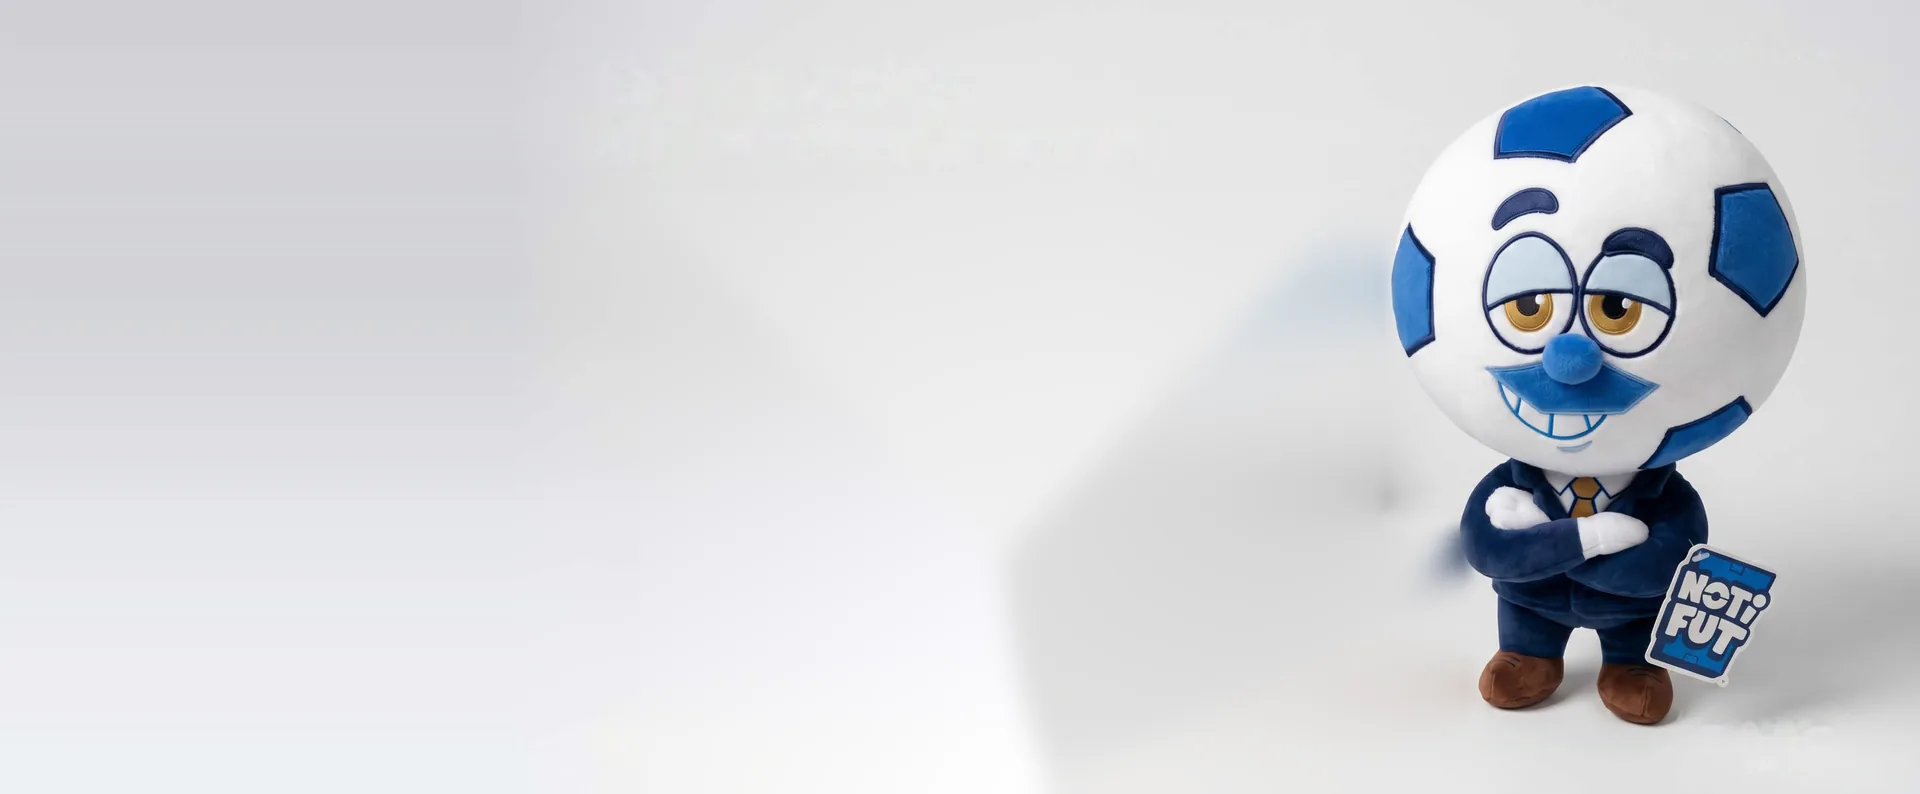
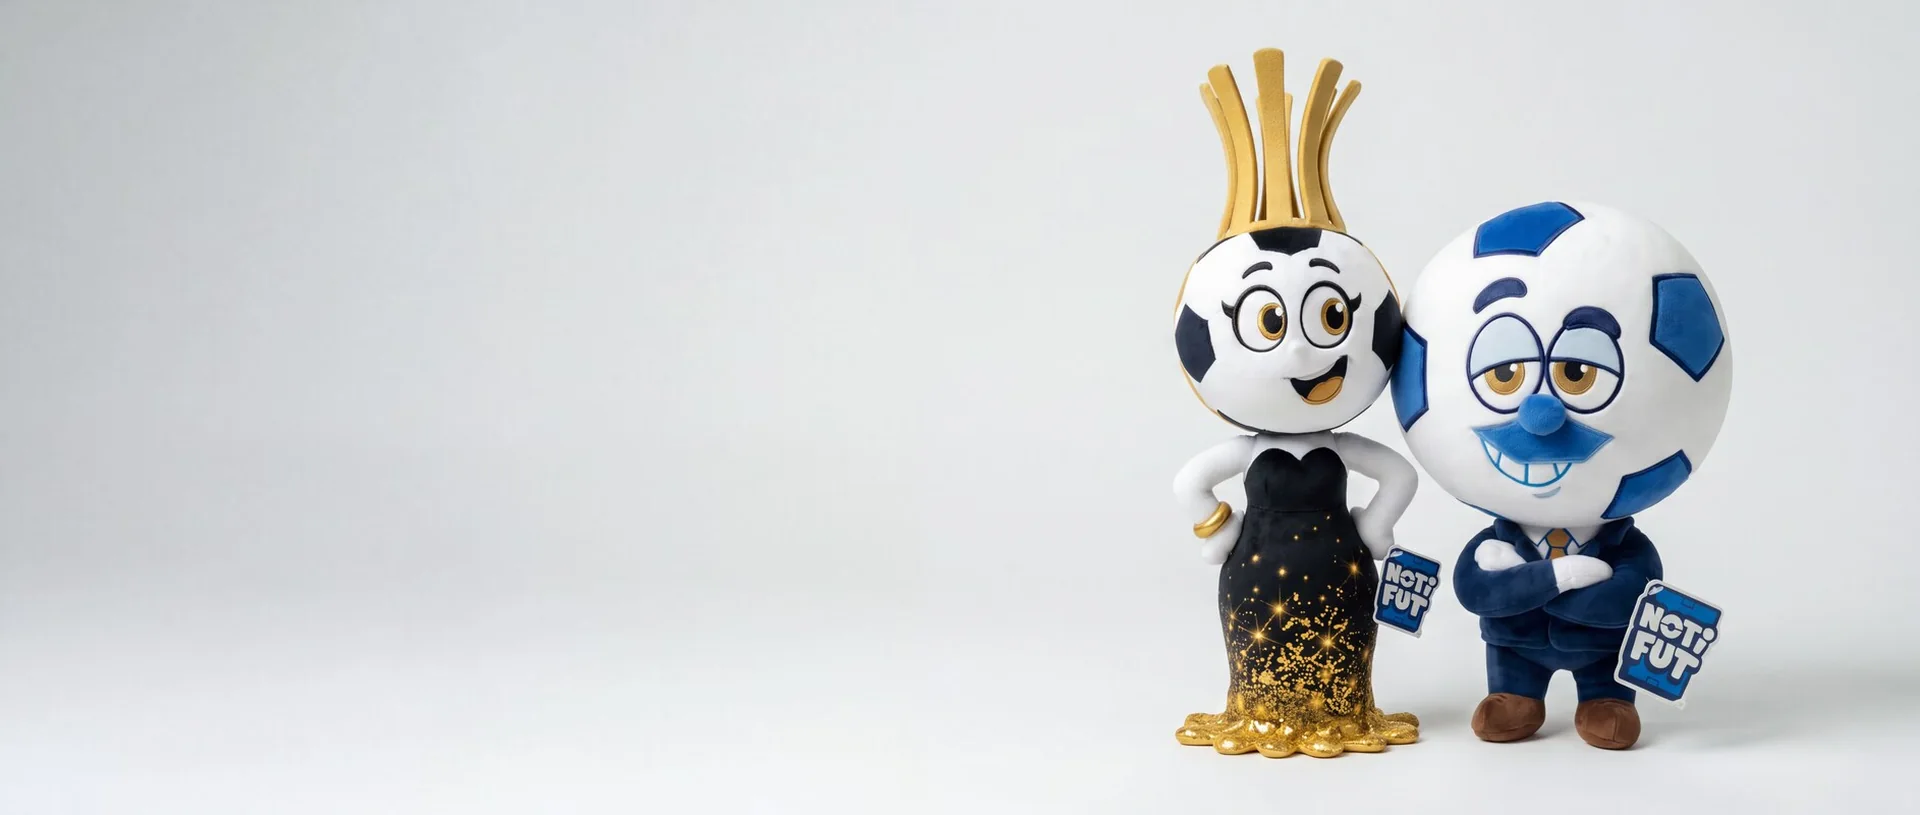
Capa NOTIFUT: pelúcias do Esférico e da Glória Eterna lado a lado
Imagem gerada no Magnific (Nano Banana Pro) a partir da foto da pelúcia
e da personagem Glória Eterna.

Claude-Session: https://claude.ai/code/session_01HFqF5h8PAU2vaiZ415WZdr

diff --git a/index.html b/index.html
@@ -1434,8 +1434,8 @@
       <!-- 3. NOTIFUT -->
       <article class="hp-slide" aria-roledescription="slide" aria-label="NOTIFUT">
         <picture class="hp-bg">
-          <source media="(max-width: 768px)" srcset="assets/img/hero-notifut-m.webp" width="960" height="540" />
-          <img src="assets/img/hero-notifut.webp" width="1920" height="794" alt="Pelúcia e jogo de tabuleiro NOTIFUT" loading="lazy" decoding="async" style="--pos:right center; --mpos:80% center;" />
+          <source media="(max-width: 768px)" srcset="assets/img/hero-notifut-m.webp?v=2" width="700" height="1110" />
+          <img src="assets/img/hero-notifut.webp?v=2" width="1920" height="815" alt="Pelúcias NOTIFUT do Esférico e da Glória Eterna" loading="lazy" decoding="async" style="--pos:right center; --mpos:center top;" />
         </picture>
         <div class="hp-content">
           <div class="featured-cat" data-i18n="notif_cat">INFANTIL • DIVERSÃO • EDUCAÇÃO</div>
